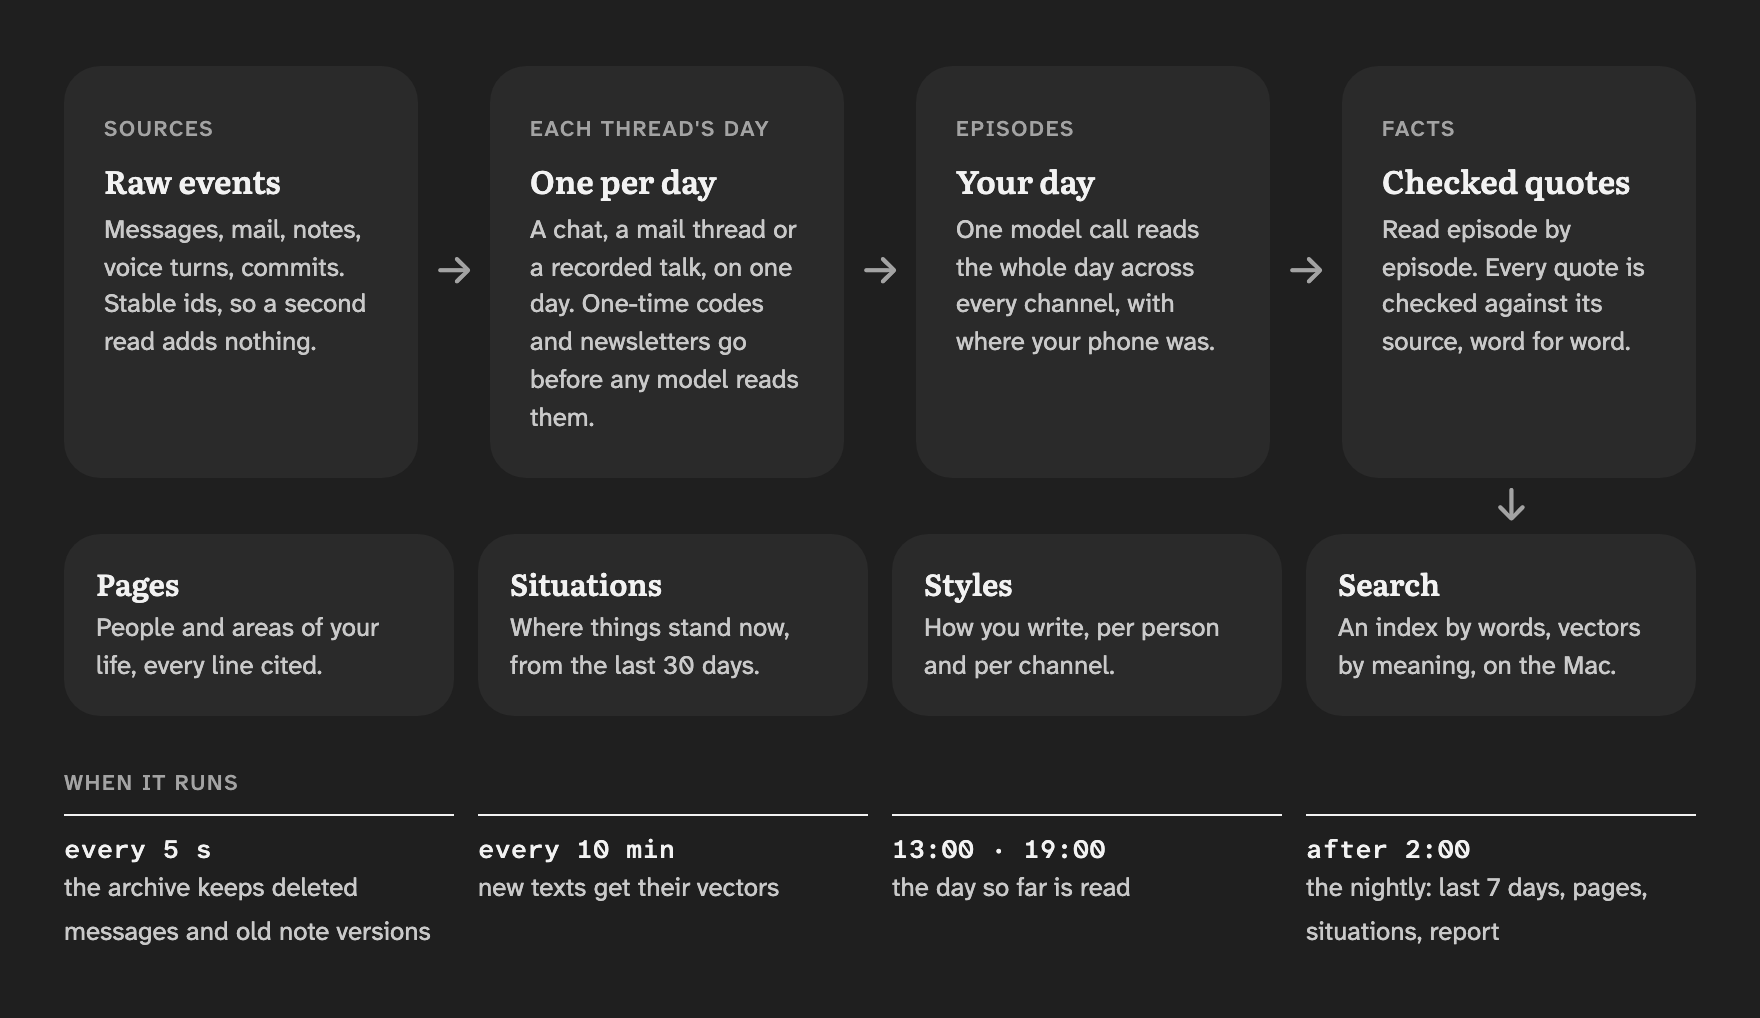
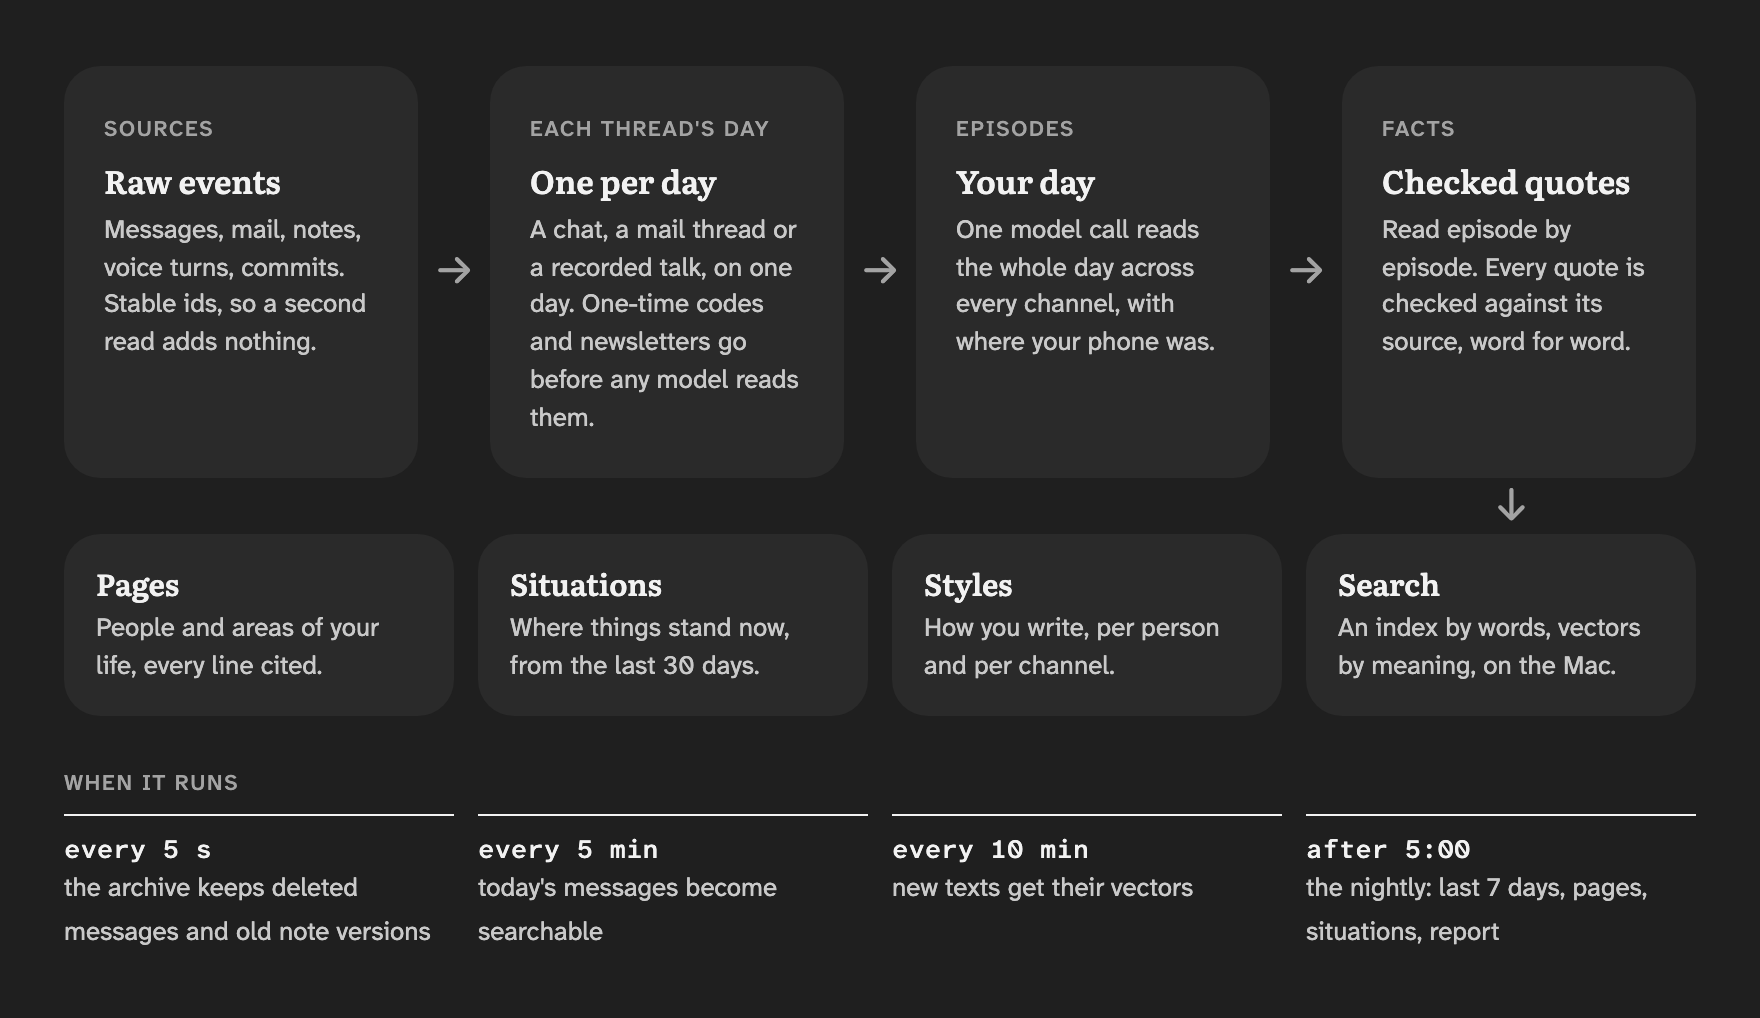
Review: the README, its pipeline picture and the voice how-to say 5:00 and no daytime passes; the status text reads the hour from its constant

Changed region(s): [[0.5, 0.8222, 0.6875, 0.8831], [0.2812, 0.8222, 0.4375, 0.8831], [0.2812, 0.9136, 0.3438, 0.944]]

diff --git a/assets/readme/diagrams.html b/assets/readme/diagrams.html
@@ -433,10 +433,12 @@
           <b>every 5 s</b
           ><span>the archive keeps deleted messages and old note versions</span>
         </div>
-        <div><b>every 10 min</b><span>new texts get their vectors</span></div>
-        <div><b>13:00 · 19:00</b><span>the day so far is read</span></div>
         <div>
-          <b>after 2:00</b
+          <b>every 5 min</b><span>today's messages become searchable</span>
+        </div>
+        <div><b>every 10 min</b><span>new texts get their vectors</span></div>
+        <div>
+          <b>after 5:00</b
           ><span>the nightly: last 7 days, pages, situations, report</span>
         </div>
       </div>

diff --git a/apps/server/src/memory/schedule.ts b/apps/server/src/memory/schedule.ts
@@ -94,7 +94,10 @@ const at = (from: Date, plusDays: number, hour: number) => {
 /** When the next nightly may start, and why then (`decide`'s rules, read forward). */
 export function nextNight(now: Date, day: string, state: JobState | undefined) {
   if (now.getHours() < FIRST_HOUR) {
-    return windowAt(at(now, 0, FIRST_HOUR), "waits for 05:00");
+    return windowAt(
+      at(now, 0, FIRST_HOUR),
+      `waits for ${String(FIRST_HOUR).padStart(2, "0")}:00`
+    );
   }
   if (decide(now.getHours(), day, state) === "run") {
     return windowAt(

diff --git a/README.md b/README.md
@@ -92,7 +92,7 @@ What each source reads, exactly: [sources](docs/sources.md).
 
 <picture>
   <source media="(prefers-color-scheme: dark)" srcset="assets/readme/pipeline-dark.png">
-  <img src="assets/readme/pipeline-light.png" alt="The memory pipeline: sources become each thread's day; one model call reads each day into episodes; facts are read episode by episode with every quote checked; they feed pages, situations, personas and search. The archive runs every 5 seconds, vectors every 10 minutes, the day so far at 13:00 and 19:00, the nightly after 2:00.">
+  <img src="assets/readme/pipeline-light.png" alt="The memory pipeline: sources become each thread's day; one model call reads each day into episodes; facts are read episode by episode with every quote checked; they feed pages, situations, personas and search. The archive runs every 5 seconds, today's messages become searchable every 5 minutes, vectors every 10 minutes, the nightly after 5:00.">
 </picture>
 
 A model reads your life the way you'd tell it: a day at a time, every channel together. The voice note, the WhatsApp
@@ -120,8 +120,8 @@ Who gets a page is judged from what code counts in the sources (two-way chats, t
 never from what a model wrote about someone. You correct anything by saying so to your assistant; your word is kept and wins over the
 memory.
 
-Nothing is ready to ask on day one. Tonight, after 2:00, Life reads your last 7 days; then every night, plus the day
-so far at 13:00 and 19:00. Older months come in through a [backfill](docs/use/settings.md#older-months).
+Nothing is ready to ask on day one. Tonight, after 5:00, Life reads your last 7 days; then every night. Today's
+messages are searchable within minutes, as they are; what happened and the facts come with the night. Older months come in through a [backfill](docs/use/settings.md#older-months).
 
 How the pipeline is built, and why: [architecture](docs/architecture.md). Every word Life uses:
 [glossary](docs/glossary.md).
@@ -187,8 +187,8 @@ turn on the sources you want, and press **Open Full Disk Access** to allow Life 
 so it starts with the Mac.
 
 The cost is your model usage, nothing else: each night makes about one call per day it reads, then more for the facts
-and pages that changed. The status window shows the tokens used this week. On a ChatGPT subscription Life skips the
-13:00 and 19:00 passes and the backfill once your Codex quota is 75% used; the nightly always runs.
+and pages that changed. The status window shows the tokens used this week. On a ChatGPT subscription Life skips
+the backfill once your Codex quota is 75% used; the nightly always runs.
 
 ## Where your data goes
 

diff --git a/docs/use/voice.md b/docs/use/voice.md
@@ -23,8 +23,8 @@ With voice on, Life also gets:
 3. Fill in **lifelog address** (for example `https://lifelog.your-tailnet.ts.net`) and **lifelog token**, then press
    **Save**. The token goes to the Keychain, and Life restarts its services to read the new settings.
 
-Open the status window: the **Watcher** card says when Life last heard from lifelog. Conversations show up in answers
-after the next pass: their episodes at 13:00, 19:00 or overnight, their facts overnight.
+Open the status window: the **Watcher** card says when Life last heard from lifelog. A conversation's words are
+searchable within minutes; its episodes and facts come after the night's run.
 
 ## From a checkout
 
